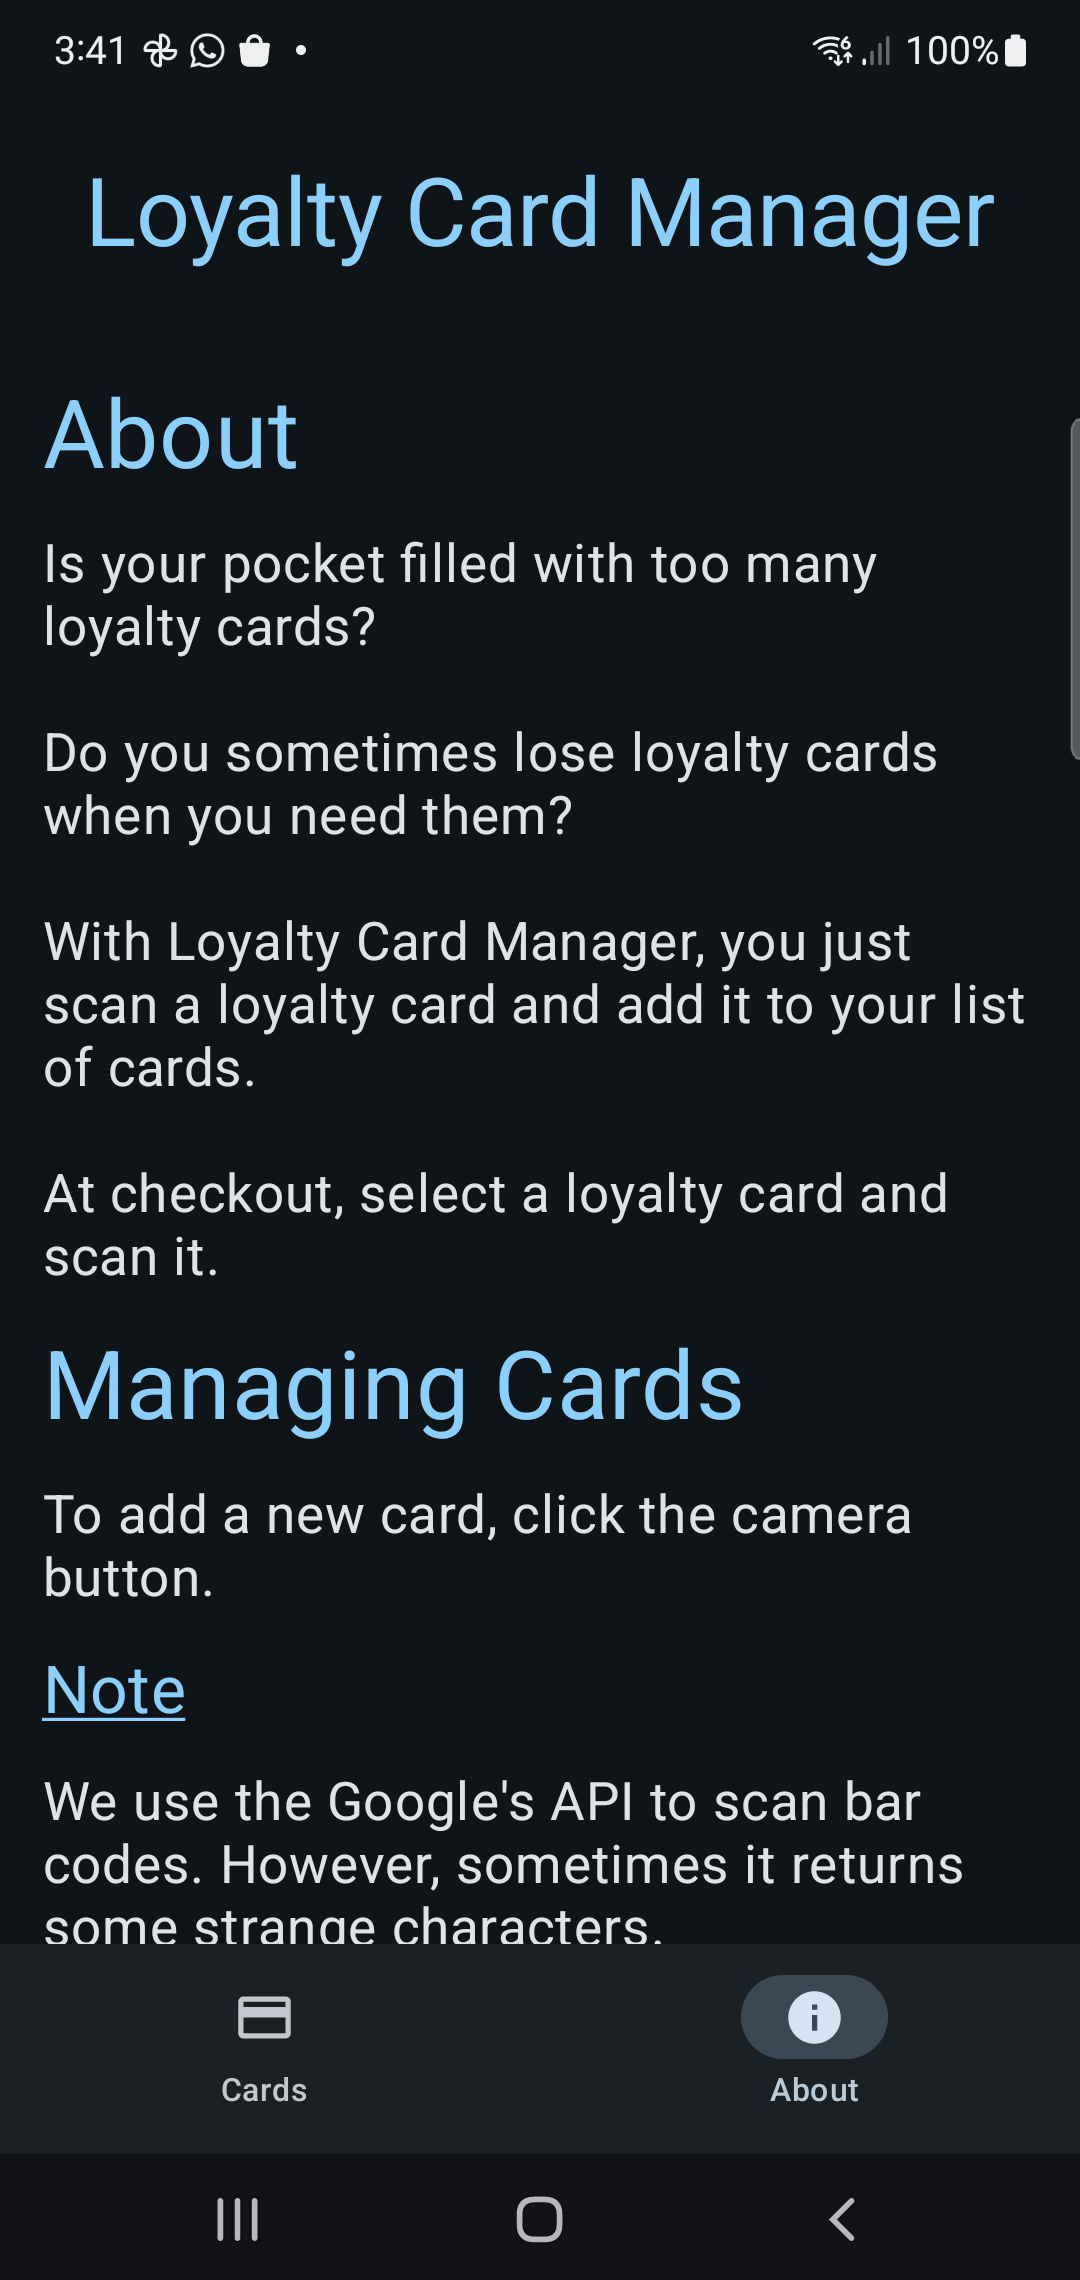
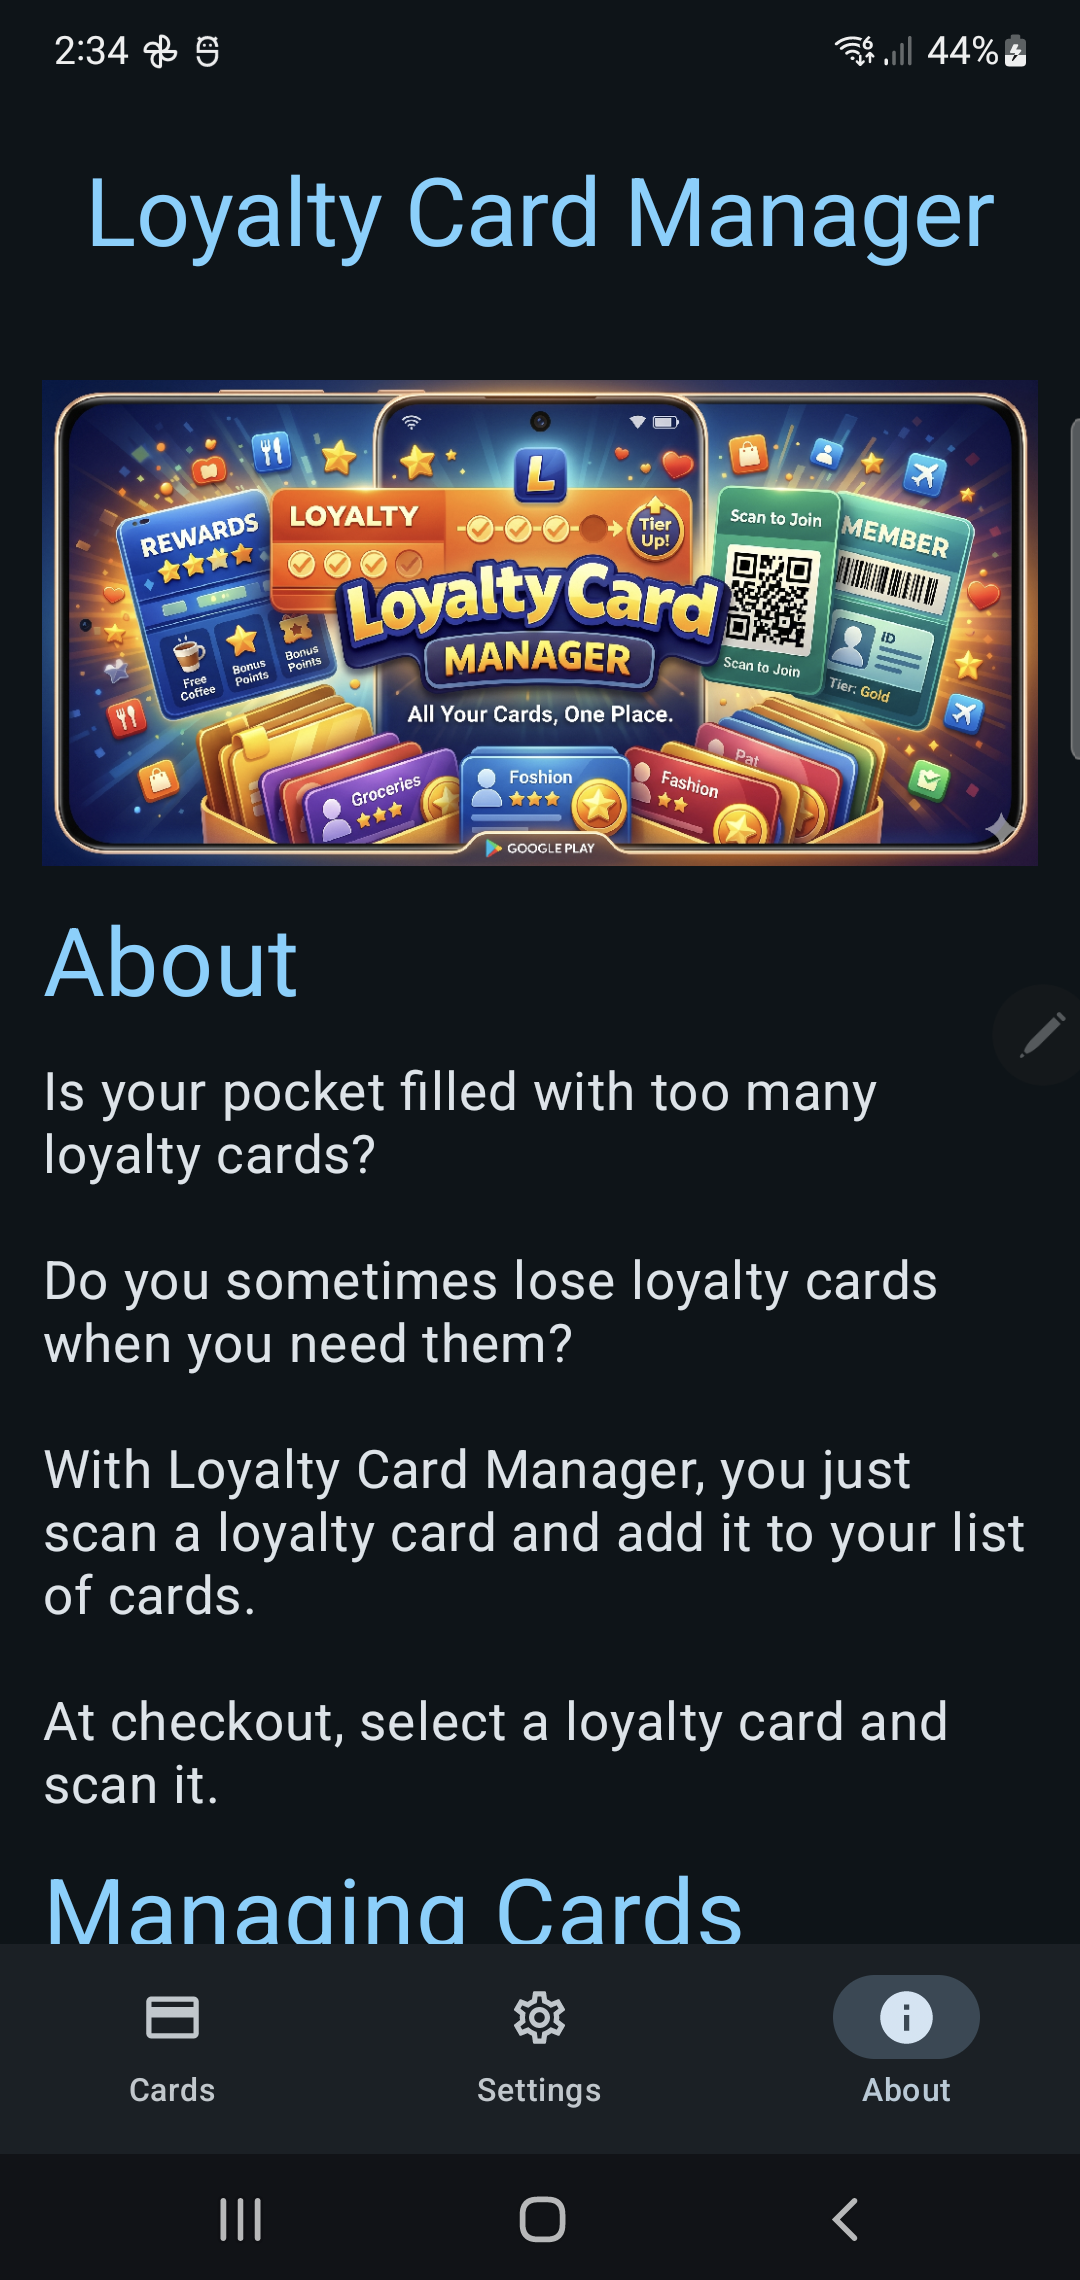
Update

diff --git a/Code/app/src/main/java/com/cyberfeedforward/loyaltycardmanager/ui/about/AboutRoute.kt b/Code/app/src/main/java/com/cyberfeedforward/loyaltycardmanager/ui/about/AboutRoute.kt
@@ -1,16 +1,21 @@
 package com.cyberfeedforward.loyaltycardmanager.ui.about
 
-import androidx.compose.foundation.rememberScrollState
-import androidx.compose.foundation.verticalScroll
+import androidx.compose.foundation.Image
 import androidx.compose.foundation.layout.Arrangement
+import androidx.compose.foundation.layout.BoxWithConstraints
 import androidx.compose.foundation.layout.Column
 import androidx.compose.foundation.layout.fillMaxSize
+import androidx.compose.foundation.layout.fillMaxWidth
 import androidx.compose.foundation.layout.padding
+import androidx.compose.foundation.rememberScrollState
+import androidx.compose.foundation.verticalScroll
 import androidx.compose.material3.MaterialTheme
 import androidx.compose.material3.Text
 import androidx.compose.runtime.Composable
 import androidx.compose.ui.Alignment
 import androidx.compose.ui.Modifier
+import androidx.compose.ui.layout.ContentScale
+import androidx.compose.ui.res.painterResource
 import androidx.compose.ui.res.stringResource
 import androidx.compose.ui.text.style.TextDecoration
 import androidx.compose.ui.tooling.preview.Preview
@@ -23,89 +28,102 @@ import com.cyberfeedforward.loyaltycardmanager.R
 fun AboutRoute(
     modifier: Modifier = Modifier,
 ) {
-    val scrollState = rememberScrollState()
+    BoxWithConstraints(modifier = modifier.fillMaxSize()) {
+        val isTablet = maxWidth >= 600.dp
+        val scrollState = rememberScrollState()
 
-    Column(
-        modifier = modifier
-            .fillMaxSize()
-            .verticalScroll(scrollState)
-            .padding(0.dp),
-        verticalArrangement = Arrangement.Top,
-        horizontalAlignment = Alignment.Start,
-    ) {
-        Text(
-            fontSize = 36.sp,
-            text = stringResource(R.string.about),
-            color = MaterialTheme.colorScheme.primary,
-        )
+        Column(
+            modifier = Modifier
+                .fillMaxSize()
+                .verticalScroll(scrollState)
+                .padding(0.dp),
+            verticalArrangement = Arrangement.Top,
+            horizontalAlignment = Alignment.Start,
+        ) {
+            Image(
+                painter = painterResource(id = R.drawable.feature_graphic),
+                contentDescription = null,
+                modifier = Modifier
+                    .fillMaxWidth(if (isTablet) 0.5f else 1f)
+                    .align(Alignment.CenterHorizontally)
+                    .padding(bottom = 16.dp),
+                contentScale = ContentScale.FillWidth,
+            )
 
-        Text(
-            modifier = Modifier.padding(top = 16.dp, bottom = 16.dp),
-            fontSize = 20.sp,
-            text = "Is your pocket filled with too many loyalty cards?"
-                    + "\n\n"
-                    + "Do you sometimes lose loyalty cards when you need them?"
-                    + "\n\n"
-                    + "With Loyalty Card Manager, you just scan a loyalty card and add it to your list of cards."
-                    + "\n\n"
-                    + "At checkout, select a loyalty card and scan it.",
-        )
+            Text(
+                fontSize = 36.sp,
+                text = stringResource(R.string.about),
+                color = MaterialTheme.colorScheme.primary,
+            )
 
-        Text(
-            fontSize = 36.sp,
-            text = "Managing Cards",
-            color = MaterialTheme.colorScheme.primary,
-        )
+            Text(
+                modifier = Modifier.padding(top = 16.dp, bottom = 16.dp),
+                fontSize = 20.sp,
+                text = "Is your pocket filled with too many loyalty cards?"
+                        + "\n\n"
+                        + "Do you sometimes lose loyalty cards when you need them?"
+                        + "\n\n"
+                        + "With Loyalty Card Manager, you just scan a loyalty card and add it to your list of cards."
+                        + "\n\n"
+                        + "At checkout, select a loyalty card and scan it.",
+            )
 
-        Text(
-            modifier = Modifier.padding(top = 16.dp, bottom = 16.dp),
-            fontSize = 20.sp,
-            text = "To add a new card, click the camera button.",
-        )
+            Text(
+                fontSize = 36.sp,
+                text = "Managing Cards",
+                color = MaterialTheme.colorScheme.primary,
+            )
 
-        Text(
-            fontSize = 25.sp,
-            text = "Note",
-            color = MaterialTheme.colorScheme.primary,
-            textDecoration = TextDecoration.Underline,
-        )
+            Text(
+                modifier = Modifier.padding(top = 16.dp, bottom = 16.dp),
+                fontSize = 20.sp,
+                text = "To add a new card, click the camera button.",
+            )
 
-        Text(
-            modifier = Modifier.padding(top = 16.dp, bottom = 16.dp),
-            fontSize = 20.sp,
-            text = "We use the Google's API to scan bar codes. "
-                    + "However, sometimes it returns some strange characters."
-                    + "\n\n"
-                    + "Please make sure the card number is correct."
-        )
+            Text(
+                fontSize = 25.sp,
+                text = "Note",
+                color = MaterialTheme.colorScheme.primary,
+                textDecoration = TextDecoration.Underline,
+            )
 
-        Text(
-            fontSize = 36.sp,
-            text = stringResource(R.string.security),
-            color = MaterialTheme.colorScheme.primary,
-        )
+            Text(
+                modifier = Modifier.padding(top = 16.dp, bottom = 16.dp),
+                fontSize = 20.sp,
+                text = "We use the Google's API to scan bar codes. "
+                        + "However, sometimes it returns some strange characters."
+                        + "\n\n"
+                        + "Please make sure the card code is correct."
+            )
 
-        Text(
-            modifier = Modifier.padding(top = 16.dp, bottom = 16.dp),
-            fontSize = 20.sp,
-            text = "Your card info is stored on your phone. No data is collected.",
-        )
+            Text(
+                fontSize = 36.sp,
+                text = stringResource(R.string.security),
+                color = MaterialTheme.colorScheme.primary,
+            )
 
-        Text(
-            fontSize = 36.sp,
-            text = "Fun",
-            color = MaterialTheme.colorScheme.primary,
-        )
+            Text(
+                modifier = Modifier.padding(top = 16.dp, bottom = 16.dp),
+                fontSize = 20.sp,
+                text = "Your card info is stored on your phone. No data is collected.",
+            )
 
-        Text(
-            modifier = Modifier.padding(top = 16.dp, bottom = 16.dp),
-            fontSize = 20.sp,
-            text = "This project was created to help me get familiar with Google apps."
-                    + "\n\n"
-                    + "I hope you enjoy it, and have fun :-)"
-                    + "\n\n"
-                    + "Trevy Burgess"
-                    + "\n\n",
-        )
+            Text(
+                fontSize = 36.sp,
+                text = "Fun",
+                color = MaterialTheme.colorScheme.primary,
+            )
+
+            Text(
+                modifier = Modifier.padding(top = 16.dp, bottom = 16.dp),
+                fontSize = 20.sp,
+                text = "This project was created to help me get familiar with Google apps."
+                        + "\n\n"
+                        + "I hope you enjoy it, and have fun :-)"
+                        + "\n\n"
+                        + "Trevy Burgess"
+                        + "\n\n",
+            )
+        }
     }
 }

diff --git a/Code/app/src/main/java/com/cyberfeedforward/loyaltycardmanager/ui/cards/CardsRoute.kt b/Code/app/src/main/java/com/cyberfeedforward/loyaltycardmanager/ui/cards/CardsRoute.kt
@@ -7,11 +7,11 @@ import androidx.activity.compose.rememberLauncherForActivityResult
 import androidx.activity.result.contract.ActivityResultContracts
 import androidx.compose.foundation.Image
 import androidx.compose.foundation.layout.Arrangement
+import androidx.compose.foundation.layout.Box
 import androidx.compose.foundation.layout.Column
 import androidx.compose.foundation.layout.Row
 import androidx.compose.foundation.layout.fillMaxWidth
 import androidx.compose.foundation.layout.height
-import androidx.compose.foundation.layout.padding
 import androidx.compose.foundation.layout.size
 import androidx.compose.material3.AlertDialog
 import androidx.compose.material3.DropdownMenu
@@ -235,6 +235,7 @@ fun CardsRoute(
                         value = editingName,
                         onValueChange = { editingName = it },
                         label = { Text(text = "Card Name *") },
+                        placeholder = { Text(text = "What is your Card Name?") },
                         isError = isNameError,
                         singleLine = true,
                     )
@@ -243,6 +244,7 @@ fun CardsRoute(
                         value = editingCode,
                         onValueChange = { editingCode = it },
                         label = { Text(text = "Card Code *") },
+                        placeholder = { Text(text = "What is your Card Code?") },
                         isError = isCodeError,
                         singleLine = true,
                     )
@@ -250,14 +252,14 @@ fun CardsRoute(
                     Row(
                         modifier = Modifier.fillMaxWidth(),
                         horizontalArrangement = Arrangement.SpaceBetween,
+                        verticalAlignment = Alignment.CenterVertically
                     ) {
                         Text(
                             text = "Type:",
-                            modifier = Modifier.padding(top = 14.dp),
                             fontSize = 18.sp,
                         )
 
-                        Column() {
+                        Box {
                             TextButton(onClick = { isTypeMenuExpanded = true }) {
                                 Text(
                                     text = editingType.label,
@@ -291,7 +293,7 @@ fun CardsRoute(
                             color = Red,
                             fontSize = 18.sp
                         )
-                        Text(text = "Verify card Code before saving")
+                        Text(text = "Verify Card Code before saving")
                     }
                 }
             },
@@ -401,6 +403,7 @@ private fun ScanResultDialog(
                     value = scannedCode,
                     onValueChange = { scannedCode = it },
                     label = { Text(text = "Card Code *") },
+                    placeholder = { Text(text = "What is your Card Code?") },
                     isError = isCodeError,
                     singleLine = true,
                 )
@@ -408,24 +411,33 @@ private fun ScanResultDialog(
                 Row(
                     modifier = Modifier.fillMaxWidth(),
                     horizontalArrangement = Arrangement.SpaceBetween,
+                    verticalAlignment = Alignment.CenterVertically
                 ) {
-                    Text(text = "Type")
-                    TextButton(onClick = { isTypeMenuExpanded = true }) {
-                        Text(text = scannedType.label)
-                    }
-
-                    DropdownMenu(
-                        expanded = isTypeMenuExpanded,
-                        onDismissRequest = { isTypeMenuExpanded = false },
-                    ) {
-                        ScannedCodeType.entries.forEach { option ->
-                            DropdownMenuItem(
-                                text = { Text(text = option.label) },
-                                onClick = {
-                                    scannedTypeName = option.name
-                                    isTypeMenuExpanded = false
-                                },
+                    Text(
+                        text = "Type",
+                        fontSize = 18.sp
+                    )
+                    Box {
+                        TextButton(onClick = { isTypeMenuExpanded = true }) {
+                            Text(
+                                text = scannedType.label,
+                                fontSize = 18.sp
                             )
+                        }
+
+                        DropdownMenu(
+                            expanded = isTypeMenuExpanded,
+                            onDismissRequest = { isTypeMenuExpanded = false },
+                        ) {
+                            ScannedCodeType.entries.forEach { option ->
+                                DropdownMenuItem(
+                                    text = { Text(text = option.label) },
+                                    onClick = {
+                                        scannedTypeName = option.name
+                                        isTypeMenuExpanded = false
+                                    },
+                                )
+                            }
                         }
                     }
                 }

diff --git a/README.md b/README.md
@@ -10,6 +10,10 @@ Here are the commands I used for setting up the app
 
 - Create a multi-page Android app using Kotlin, Jetpack Compose, and the MVVM design pattern. Use stateless composable. Create a master page for hosting all other pages. The bottom of this page will include a navigation bar. All pages will be hosted here.
 - Include @Preview methods for all app pages
+- Hide the home button and settings button in the navigation bar. Start app in Cards page
+
+## Cards
+
 - Add a button to the CardsScreen page. When clicked, it will use the camera to scan a QR code or bar code. A popup window will show the scanned QR code or bar code to the user.
 - Manual change: Scan result is moved to success (ScanResultDialog) and fail (ScanFailDialog) methods
 - Add the image of the bar code or QR code to the dialog in ScanResultDialog
@@ -25,10 +29,15 @@ Here are the commands I used for setting up the app
 - When a person presses Delete, open a dialog asking for confirmation. If the user presses 'Yes', delete the record and update the UI
 - When a person presses the Edit button, open a brand new dialog. This dialog will show the image of the QR code or bar code, the number and name. The image will be determined by card type
 - Show the bar code in the edit dialog
-- Add a button to the navigation bar called About. When pressed open a page called About.
-- Hide the home button and settings button in the navigation bar. Start app in Cards page
 - When a user presses the Edit button, allow a user to edit the QR code or bar code
 - When a user scans a new QR code, allow a user to edit the QR code or bar code
-
 - Add logging to log all errors
+- On the Scanned Card dialog, the Type dropdown is shifting position when a user opens dropdown. Also, align the menu below the text
 
+## Settings
+
+## About
+
+- Add a button to the navigation bar called About. When pressed open a page called About.
+- Add feature_graphic.png to the About screen
+- Make the image 50% when on a tablet
